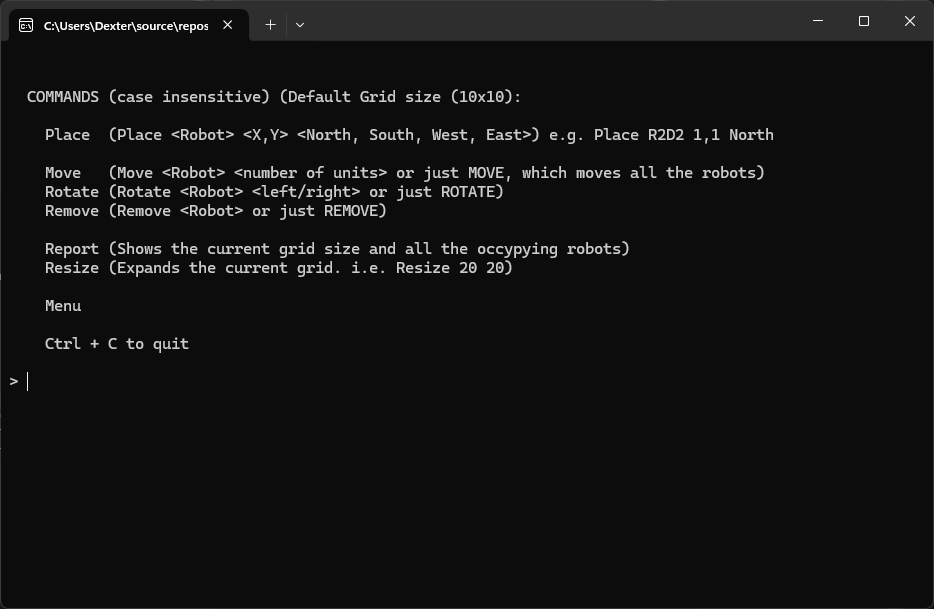
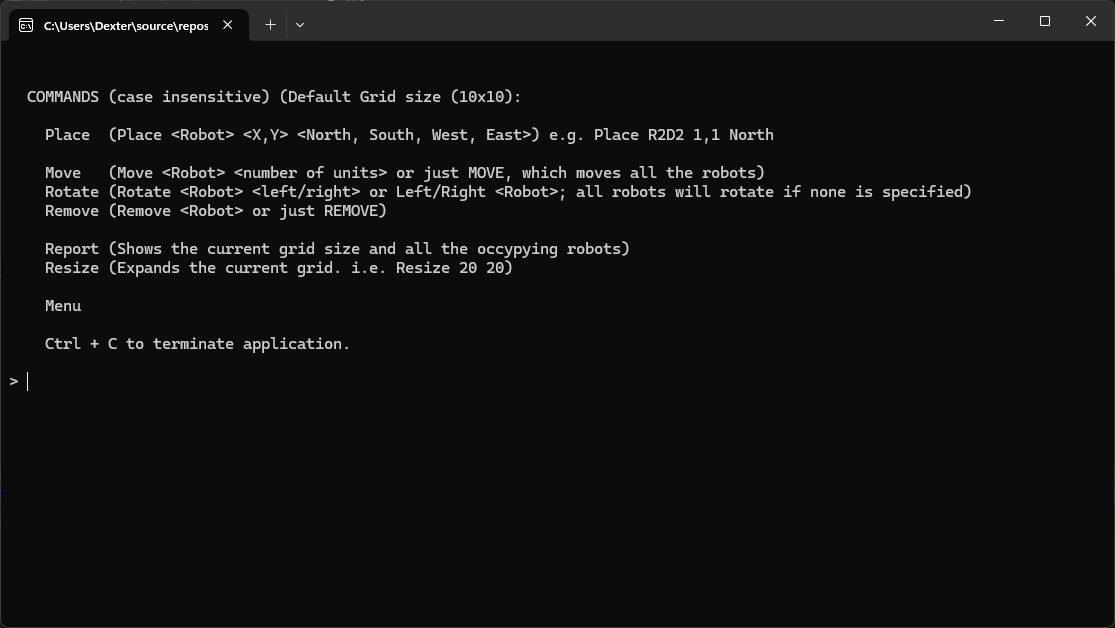
Add left/right command to rotate robot(s)

diff --git a/RobotSimulator.cpp b/RobotSimulator.cpp
@@ -128,7 +128,7 @@ namespace Simulator {
             const auto [variant, direction] = params.value();
 
             if (variant.empty()) {
-                std::cout << "Usage: ROTATE <direction> or ROTATE <robot> <direction>\n";
+                std::cout << "Usage: ROTATE <direction> or ROTATE <robot> <direction> or simply LEFT/RIGHT\n";
                 return;
             }
 
@@ -142,7 +142,17 @@ namespace Simulator {
                 rotate(robot, direction);
             }
         } 
-       
+        else if (command == "LEFT" || command == "RIGHT") 
+        {
+          if (!robot.model().empty()) 
+          {
+              rotate(robot, command);
+          } 
+          else 
+          {
+              rotateAll(command);
+          }
+        }
         else if (command == "REMOVE") 
         {
             if (!robot.model().empty()) 

diff --git a/Menu.h b/Menu.h
@@ -14,7 +14,7 @@ class Menu {
         std::cout << "\n\n  COMMANDS (case insensitive) (Default Grid size (10x10):";
         std::cout << "\n\n    Place  (Place <Robot> <X,Y> <North, South, West, East>) e.g. Place R2D2 1,1 North";
         std::cout << "\n\n    Move   (Move <Robot> <number of units> or just MOVE, which moves all the robots)";
-        std::cout << "\n    Rotate (Rotate <Robot> <left/right> or just ROTATE)";
+        std::cout << "\n    Rotate (Rotate <Robot> <left/right> or Left/Right <Robot>; all robots will rotate if none is specified)";
         std::cout << "\n    Remove (Remove <Robot> or just REMOVE)";
         std::cout << "\n\n    Report (Shows the current grid size and all the occypying robots)";
         std::cout << "\n    Resize (Expands the current grid. i.e. Resize 20 20)";
